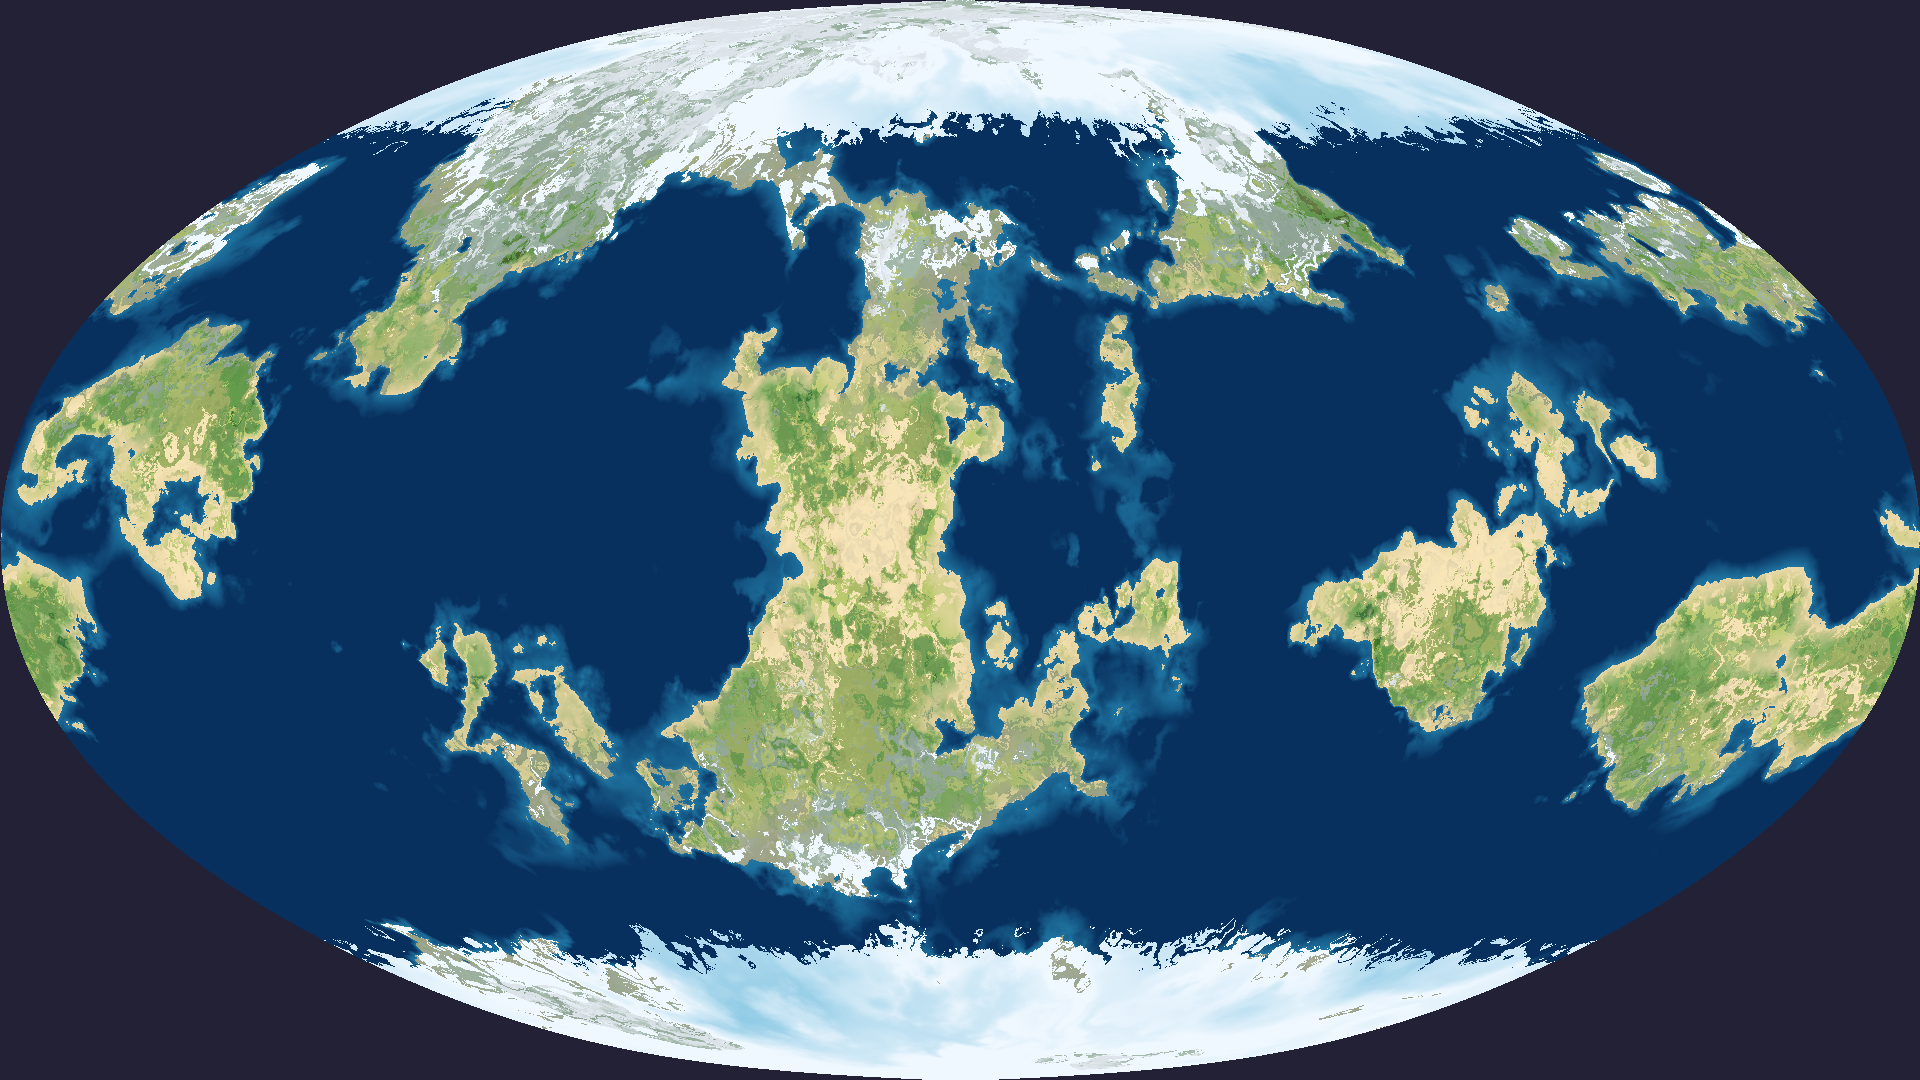
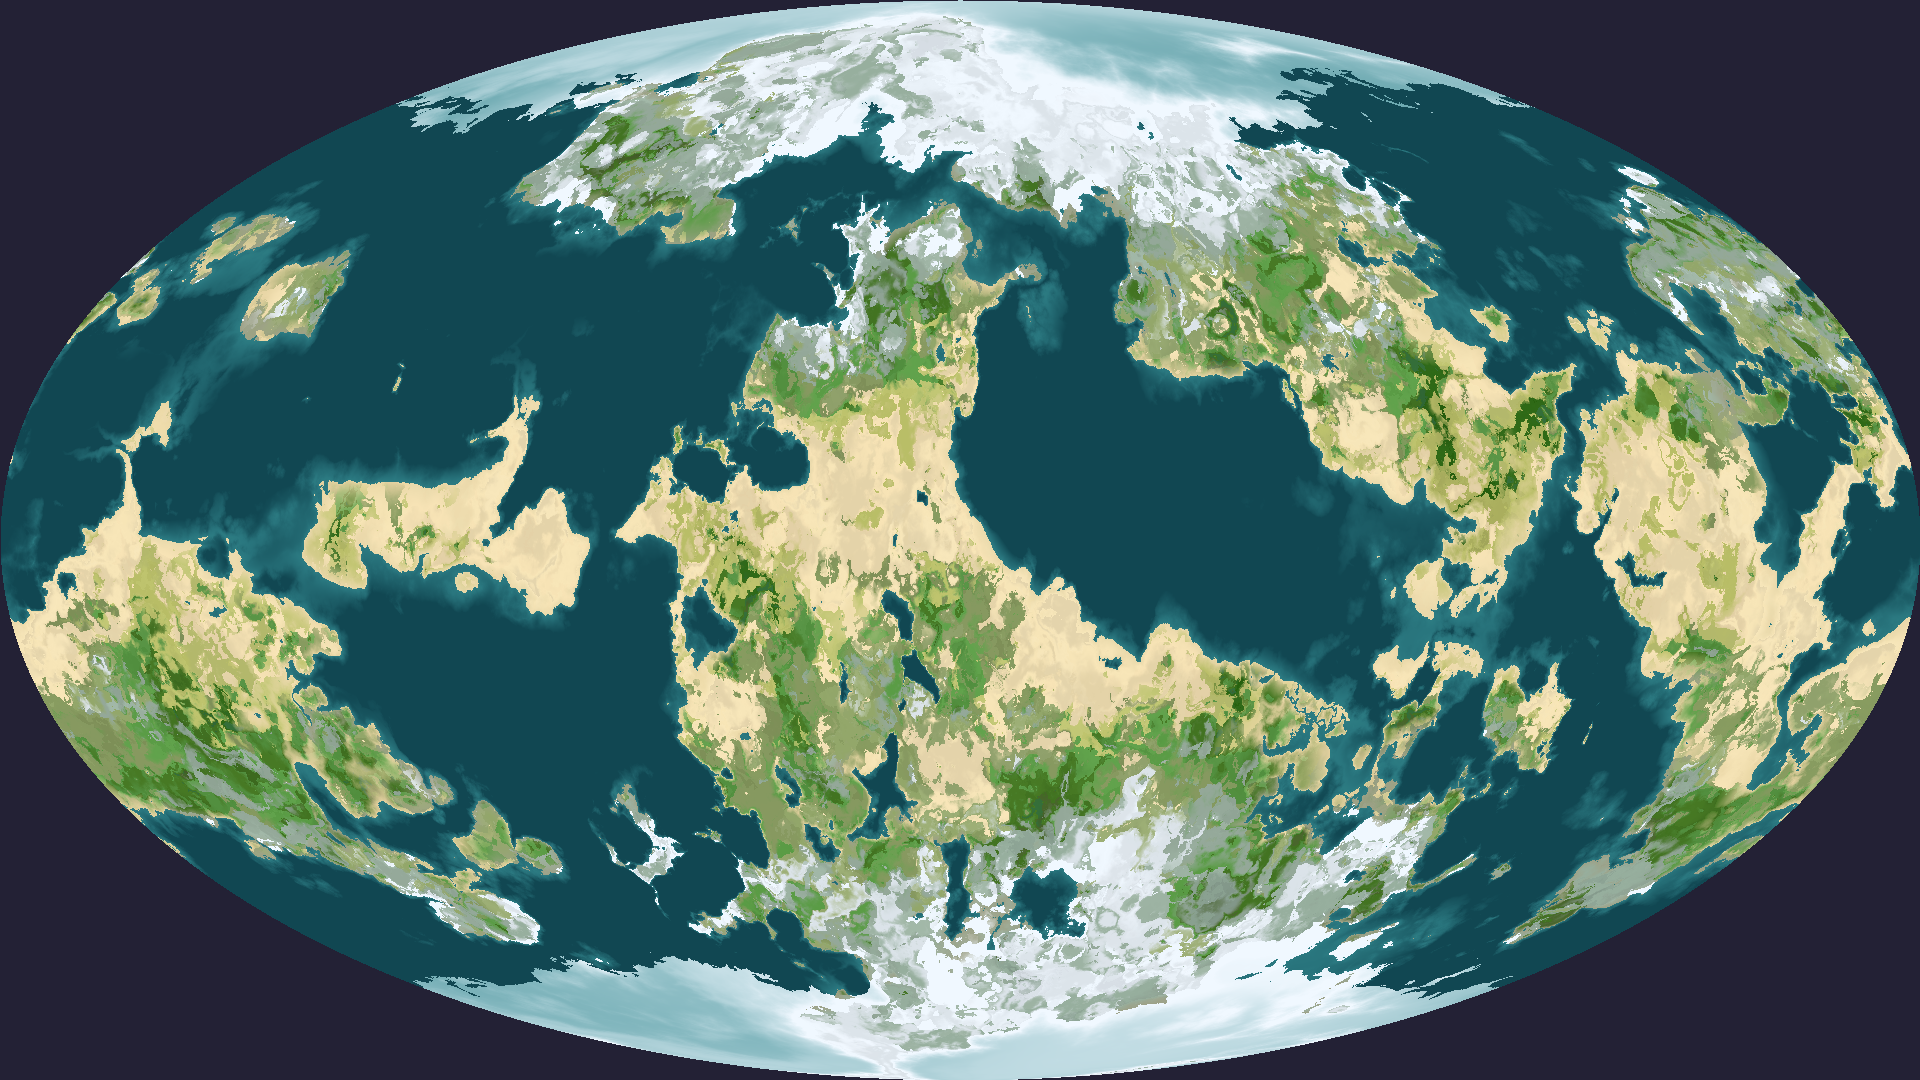
Regenerate the world map previews.
Animated world maps are next.

diff --git a/squidlib/src/test/java/squidpony/gdx/tools/DetailedWorldMapWriter.java b/squidlib/src/test/java/squidpony/gdx/tools/DetailedWorldMapWriter.java
@@ -31,15 +31,12 @@ import java.util.Date;
 public class DetailedWorldMapWriter extends ApplicationAdapter {
 //    private static final int width = 1920, height = 1080;
 //    private static final int width = 256, height = 256; // localMimic
-//    private static final int width = 512, height = 256; // mimic, elliptical
-    private static final int width = 1024, height = 512; // mimic, elliptical
+    private static final int width = 512, height = 256; // mimic, elliptical
+//    private static final int width = 1024, height = 512; // mimic, elliptical
 //    private static final int width = 2048, height = 1024; // mimic, elliptical
 //    private static final int width = 1000, height = 1000; // space view
 //    private static final int width = 1200, height = 400; // squat
-    private static final int LIMIT = 10;
-    //private static final int width = 256, height = 128;
-    //private static final int width = 314 * 4, height = 400;
-    //private static final int width = 512, height = 512;
+    private static final int LIMIT = 5;
 
     private FilterBatch batch;
 //    private OrderedSet<String> adjective = new OrderedSet<>(256), noun = new OrderedSet<>(256);
@@ -73,6 +70,7 @@ public class DetailedWorldMapWriter extends ApplicationAdapter {
 
     @Override
     public void create() {
+        Gdx.gl.glDisable(GL20.GL_BLEND);
 //        earth.perceptualHashQuick(earthHash, workingHash);
 //        earthCount = earth.size() - voidCount;
         batch = new FilterBatch();
@@ -86,16 +84,15 @@ public class DetailedWorldMapWriter extends ApplicationAdapter {
 //        path = "out/worlds/" + date + "/SphereExpo/";
 //        path = "out/worlds/" + date + "/Ellipse/";
 //        path = "out/worlds/" + date + "/EllipseExpo/";
-//        path = "out/worlds/" + date + "/Mimic/";
+        path = "out/worlds/" + date + "/Mimic/";
 //        path = "out/worlds/" + date + "/SpaceView/";
 //        path = "out/worlds/" + date + "/Sphere_Classic/";
-        path = "out/worlds/" + date + "/Hyperellipse/";
+//        path = "out/worlds/" + date + "/Hyperellipse/";
 //        path = "out/worlds/" + date + "/HyperellipseExpo/";
 //        path = "out/worlds/" + date + "/HyperellipseQuilt/";
 //        path = "out/worlds/" + date + "/Tiling/";
 //        path = "out/worlds/" + date + "/RoundSide/";
 //        path = "out/worlds/" + date + "/Local/";
-//        path = "out/worlds/" + date + "/LocalSquat/";
 //        path = "out/worlds/" + date + "/LocalMimic/";
 //        path = "out/worlds/" + date + "/EllipseHammer/";
         
@@ -113,13 +110,13 @@ public class DetailedWorldMapWriter extends ApplicationAdapter {
 //        writer.palette = new PaletteReducer();
 //        writer.palette.setDitherStrength(1f);
         rng = new StatefulRNG(CrossHash.hash64(date));
-        //rng.setState(rng.nextLong() + 2000L); // change addend when you need different results on the same date  
+        rng.setState(rng.nextLong() + 2000L); // change addend when you need different results on the same date
         //rng = new StatefulRNG(0L);
         seed = rng.getState();
         
         thesaurus = new Thesaurus(rng);
 //        Noise.Noise3D noise = new Noise.Exponential3D(new FastNoise((int)seed, 2.75f, FastNoise.FOAM_FRACTAL, 3));
-        FastNoise noise = new FastNoise((int)seed, 2.5f, FastNoise.FOAM_FRACTAL, 3);
+        FastNoise noise = new FastNoise((int)seed, 2.0f, FastNoise.FOAM_FRACTAL, 2);
 //        FastNoise noise = new FastNoise((int)seed, 8f, FastNoise.CUBIC_FRACTAL, 1);
 //        noise.setPointHash(new FlawedPointHash.CubeHash(seed, 1 << 3));
 //        noise.setPointHash(new IPointHash.LongImpl() {
@@ -163,22 +160,26 @@ public class DetailedWorldMapWriter extends ApplicationAdapter {
 //        WorldMapGenerator.DEFAULT_NOISE.setFractalLacunarity(0.8f);
 //        WorldMapGenerator.DEFAULT_NOISE.setFractalGain(1.25f);
         
-//        world = new WorldMapGenerator.SphereMap(seed, width, height, noise, 1.0);
-//        world = new WorldMapGenerator.TilingMap(seed, width, height, WorldMapGenerator.DEFAULT_NOISE, 1.75);
-//        world = new WorldMapGenerator.EllipticalMap(seed, width, height, noise, 1.75);
-//        world = new WorldMapGenerator.MimicMap(seed, WorldMapGenerator.DEFAULT_NOISE, 1.75);
-//        world = new WorldMapGenerator.SpaceViewMap(seed, width, height, WorldMapGenerator.DEFAULT_NOISE, 1.75);
-//        world = new WorldMapGenerator.RoundSideMap(seed, width, height, WorldMapGenerator.DEFAULT_NOISE, 1.75);
-        world = new WorldMapGenerator.HyperellipticalMap(seed, width, height, WorldMapGenerator.DEFAULT_NOISE, 1.75, 0.03125, 2.5);
+//        world = new WorldMapGenerator.SphereMap(seed, width, height, noise, 2.0);
+//        world = new WorldMapGenerator.TilingMap(seed, width, height, noise, 2.0);
+//        world = new WorldMapGenerator.EllipticalMap(seed, width, height, noise, 2.0);
+        world = new WorldMapGenerator.MimicMap(seed, noise, 2.0);
+//        world = new WorldMapGenerator.SpaceViewMap(seed, width, height, noise, 2.0);
+//        world = new WorldMapGenerator.RoundSideMap(seed, width, height, noise, 2.0);
+//        world = new WorldMapGenerator.HyperellipticalMap(seed, width, height, noise, 2.0, 0.03125, 2.5);
 //        world = new WorldMapGenerator.EllipticalHammerMap(seed, width, height, WorldMapGenerator.DEFAULT_NOISE, 1.75);
-//        world = new WorldMapGenerator.LocalMap(seed, width, height, WorldMapGenerator.DEFAULT_NOISE, 1.75);
+//        world = new WorldMapGenerator.LocalMap(seed, width, height, noise, 2.0);
 //        world = new WorldMapGenerator.LocalMap(seed, width, height, WorldMapGenerator.DEFAULT_NOISE, 0.8);
-//        world = new WorldMapGenerator.LocalMimicMap(seed, WorldMapGenerator.DEFAULT_NOISE, 1.75);
+//        world = new WorldMapGenerator.LocalMimicMap(seed, noise, 2.0);
 //        world = new WorldMapGenerator.HyperellipticalMap(seed, width, height, noise, 0.8, 0.03125, 2.5);
         wmv = new WorldMapView(world);
 
         //generate(seed);
         rng.setState(seed);
+        for (int i = 0; i < LIMIT; i++) {
+            putMap();
+        }
+        Gdx.app.exit();
     }
 
     public void generate(final long seed)
@@ -196,10 +197,11 @@ public class DetailedWorldMapWriter extends ApplicationAdapter {
         world.rng.setState(seed);
         world.seedA = world.rng.stateA;
         world.seedB = world.rng.stateB;
+        wmv.generate(1.0, 1.25);
 //        wmv.generate();
-        wmv.generate(
-                1.0 + NumberTools.formCurvedDouble(world.seedA * 0x123456789ABCDEFL ^ world.seedB) * 0.1875,
-                1.0625 + DiverRNG.determineDouble(world.seedB * 0x123456789ABL ^ world.seedA) * 0.375);
+//        wmv.generate(
+//                1.0 + NumberTools.formCurvedDouble(world.seedA * 0x123456789ABCDEFL ^ world.seedB) * 0.1875,
+//                1.0625 + DiverRNG.determineDouble(world.seedB * 0x123456789ABL ^ world.seedA) * 0.375);
         ttg = System.currentTimeMillis() - startTime;
     }
 
@@ -341,17 +343,15 @@ public class DetailedWorldMapWriter extends ApplicationAdapter {
 //        csv.append(csv2).append(csv3).append(csv4);
 //        Gdx.files.local(path + name + ".java").writeString(csv.toString(), false);
         //if(counter >= 1000000 || jaccard >= 0.4)
-        if(counter >= LIMIT)
-                Gdx.app.exit();
     }
     @Override
     public void render() {
         // standard clear the background routine for libGDX
         //Gdx.gl.glClearColor(0f, 0f, 0f, 1.0f);
         //Gdx.gl.glClear(GL20.GL_COLOR_BUFFER_BIT);
-        Gdx.gl.glDisable(GL20.GL_BLEND);
+//        Gdx.gl.glDisable(GL20.GL_BLEND);
         // need to display the map every frame, since we clear the screen to avoid artifacts.
-        putMap();
+        //putMap();
         Gdx.graphics.setTitle("Map! Took " + ttg + " ms to generate");
     }
 

diff --git a/squidlib/src/test/java/squidpony/gdx/tools/AnimatedWorldMapWriter.java b/squidlib/src/test/java/squidpony/gdx/tools/AnimatedWorldMapWriter.java
@@ -447,7 +447,7 @@ World #5, SavoryMelonAlder, completed in 64338 ms
         // standard clear the background routine for libGDX
         //Gdx.gl.glClearColor(0f, 0f, 0f, 1.0f);
         //Gdx.gl.glClear(GL20.GL_COLOR_BUFFER_BIT);
-        Gdx.gl.glDisable(GL20.GL_BLEND);
+//        Gdx.gl.glDisable(GL20.GL_BLEND);
         // need to display the map every frame, since we clear the screen to avoid artifacts.
 //        batch.begin();
 //        if(pm[0] != null) 
